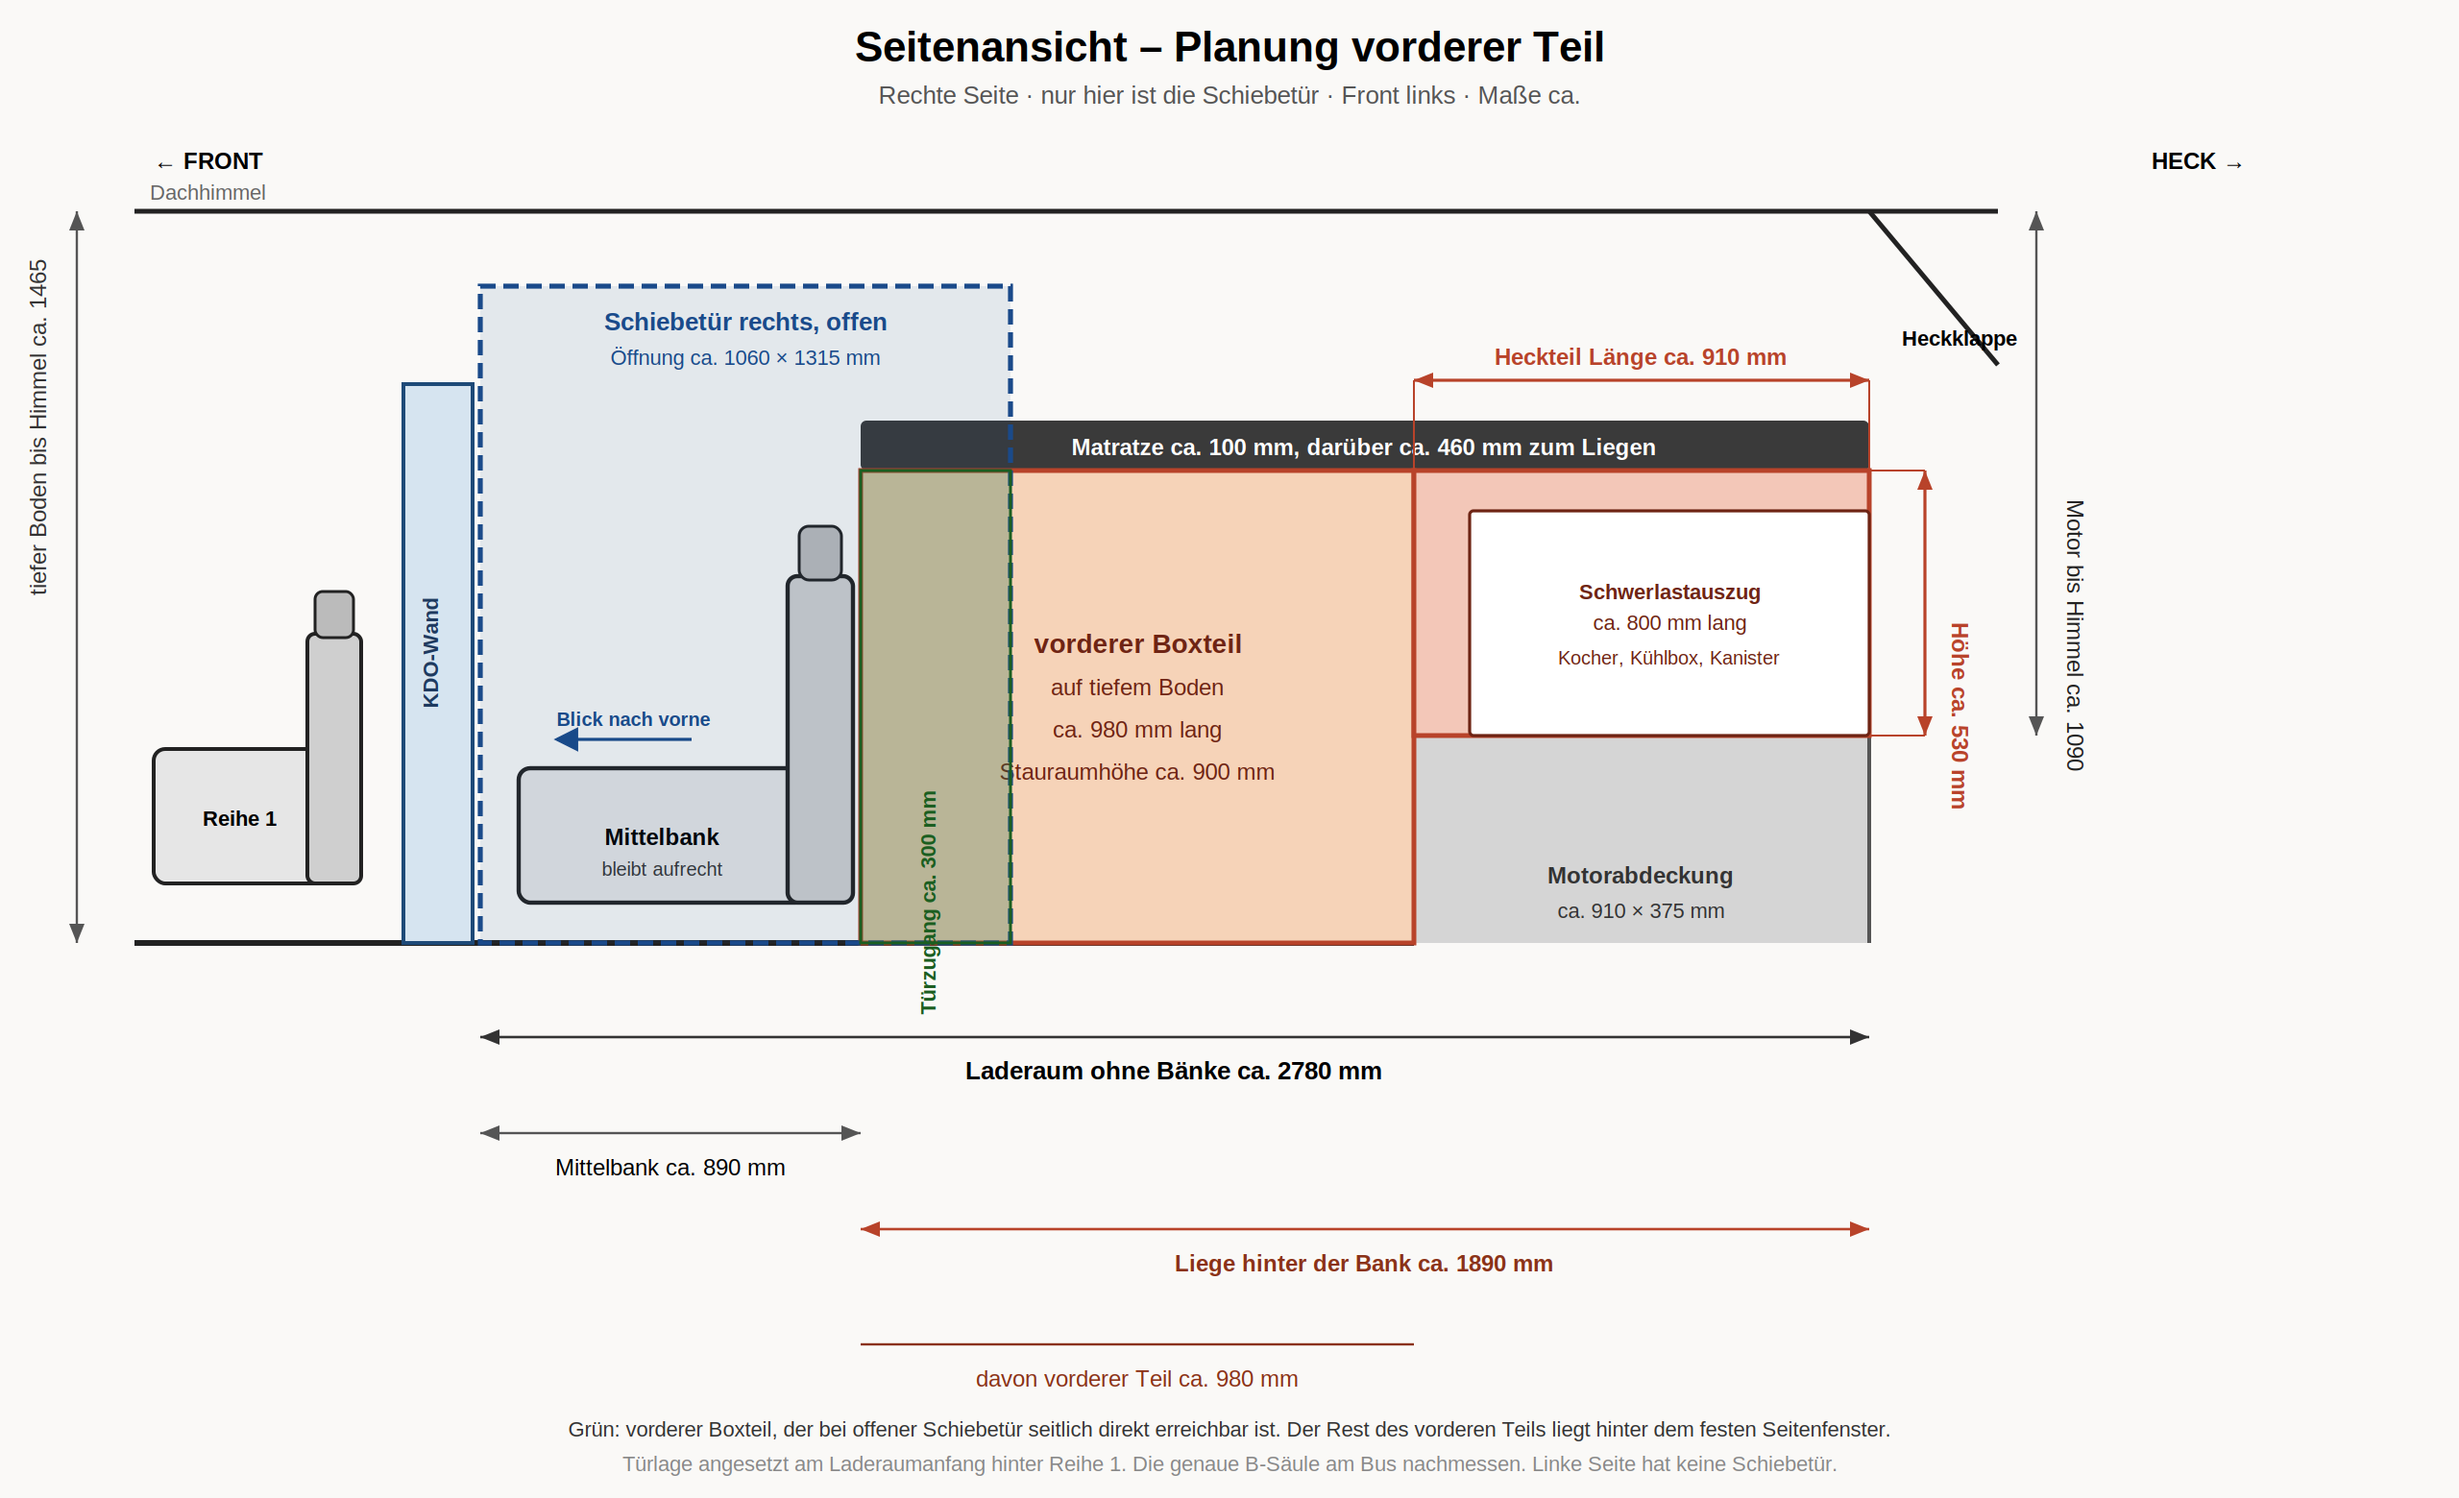
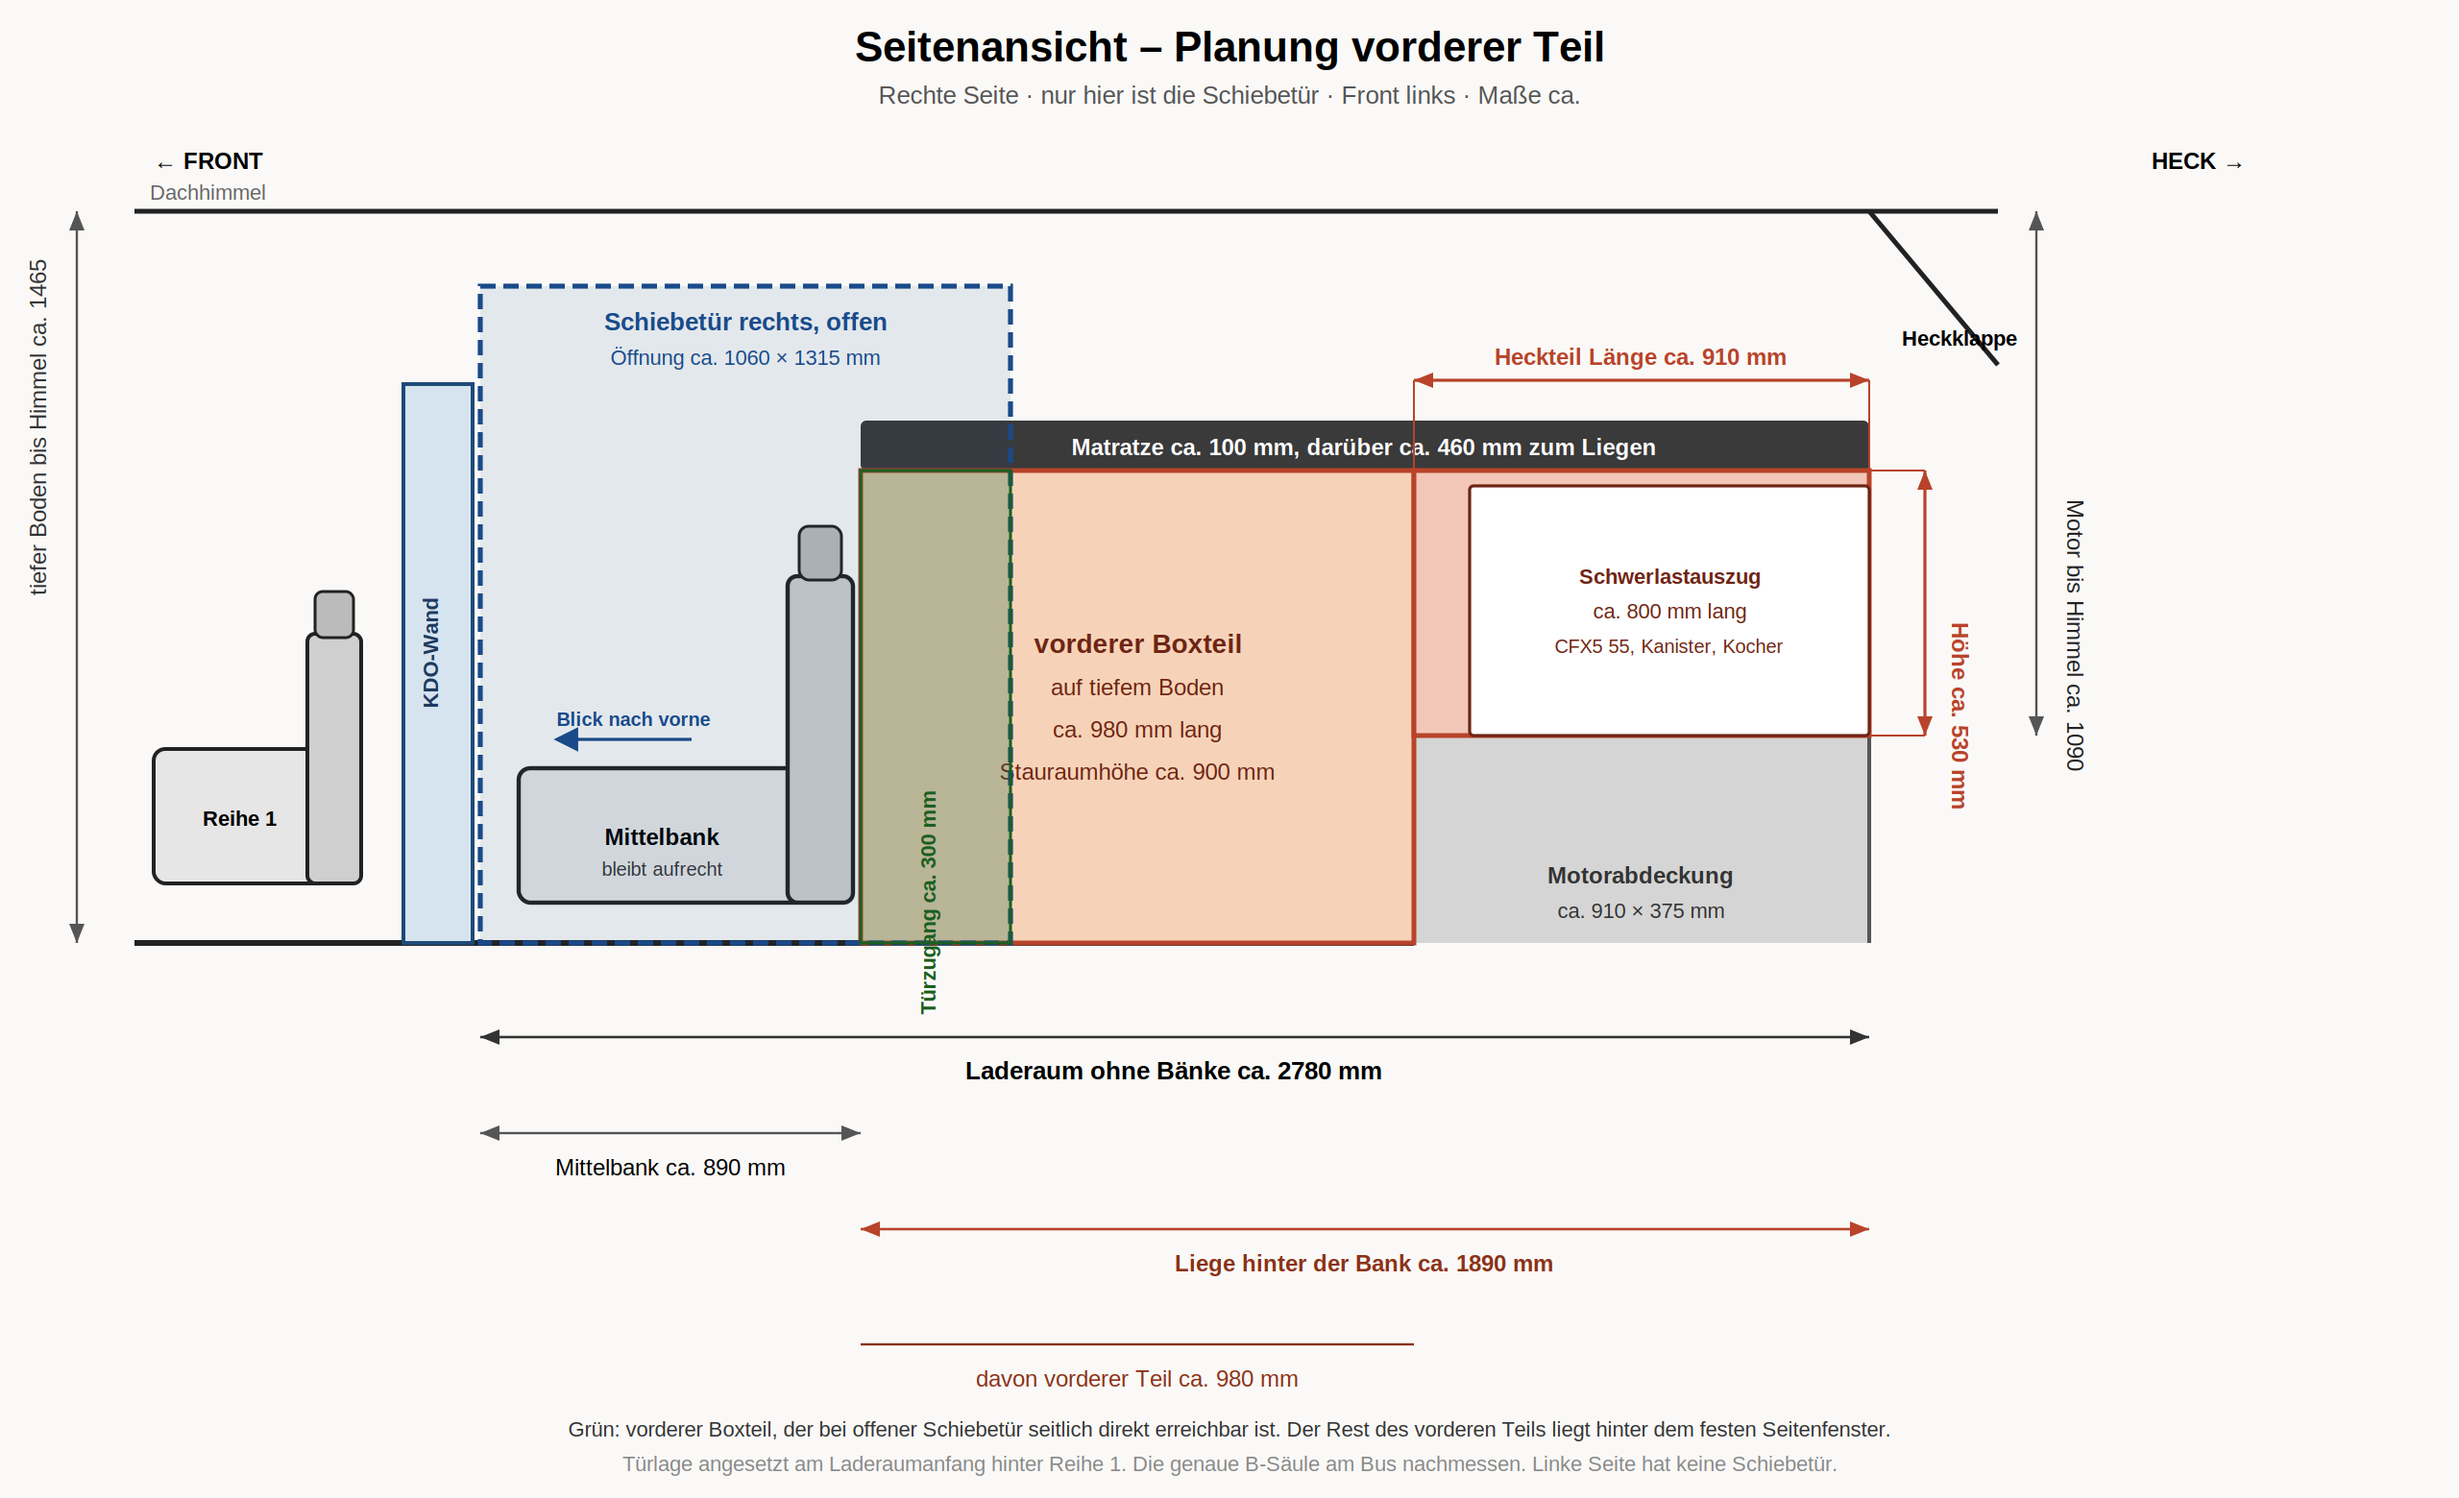
Place the CFX5 55 between the water can and the stove
The 55-liter cooler uses the 530 mm rear height, with dish shelves above the flat can and pot storage behind the lengthwise stove.

Changed region(s): [[0.5938, 0.3077, 0.7812, 0.4615]]

diff --git a/docs/t3-syncro-camping-referenz.md b/docs/t3-syncro-camping-referenz.md
@@ -21,7 +21,7 @@ Die Campingbox bleibt so, bis am Bus nachgemessen wird. Kein Materialzuschnitt i
 
 **Box:** Liege oben, eben. Vorderer Teil ca. 980 mm auf dem tiefen Boden, Stauraum dort ca. 900 mm hoch. Heckteil auf der Motorabdeckung ca. **910 × 1550 × 530 mm** (Länge × Breite × Höhe). Die Motorabdeckung selbst ist nur ca. 1190 mm breit, der Kasten geht bis an die Seiten. Der hohe Kasten ist Stauraum, nicht Sitzfreiheit.
 
-**Heckauszug** (von der Heckklappe): ein **Schwerlastauszug**, ca. 800 mm lang und über die Breite verteilt. Darin nebeneinander: Doppelkocher längs (ca. 600 mm in Fahrtrichtung), Kühlbox ca. 36 l zwischen Kanister und Kocher, flacher Wasserkanister 20 l. Der LifeSaver Jerrycan bleibt draußen. Kochen nur bei offener Heckklappe. Der hohe Stauraum über diesem Auszug entfällt, der bleibt im vorderen Boxteil.
+**Heckauszug** (von der Heckklappe): ein **Schwerlastauszug**, ca. 800 mm lang. Nebeneinander: flacher Wasserkanister 20 l mit Geschirrfächern darüber, **Dometic CFX5 55** (720 × 455 × 480 mm) dazwischen, Doppelkocher längs mit Fach dahinter für Topf, Brett und Kartusche. Der LifeSaver bleibt draußen. Kochen nur bei offener Heckklappe. Der große Stauraum bleibt im vorderen Boxteil.
 
 **Schlechtwetter:** Aufenthalt zu fünft im Vorzelt an der Schiebetür, nicht auf der Liege. Abschnitt 7.3.
 
@@ -368,7 +368,7 @@ Priorisierte Packliste (nur was wirklich im Bus bleiben soll):
 | 1 | Schlafsäcke / Decken / Kissen (tags) | Kompressionsbeutel |
 | 2 | Wechselkleidung 2 Erwachsene | 1× Eurobox 600×400 |
 | 3 | Küchen-Minimum (Gas abseits Fahrzeugregeln beachten) | 1× flache Box |
-| 4 | **Kühlbox 12 V, Kompressor, ca. 36 l** | im Schwerlastauszug, zwischen Kanister und Kocher |
+| 4 | **Dometic CFX5 55, 55 l** | im Schwerlastauszug, zwischen Kanister und Kocher |
 | 0 | **flacher Wasserkanister, ca. 20 l** | Heckfach, liegend, Höhe max. 170 mm |
 | 0b | **Doppel-Gaskocher** | im Schwerlastauszug, längs, daneben Kühlbox und Kanister |
 | 5 | Werkzeug / Recovery klein | 1 Fach, zugänglich von Heck |
@@ -400,24 +400,36 @@ Reliance Aqua-Tainer 15 l ist 29 × 29 × 27,5 cm und bleibt zu hoch. Der 26-l-K
 
 Der Heckauszug ist ein **Schwerlast-Vollauszug**. Darauf stehen nebeneinander der Kocher, die Kühlbox und der Wasserkanister. Der Heckteil ist 910 mm tief und 1550 mm breit, der Deckel liegt 530 mm über dem Motor.
 
-Für fünf Personen wäre eine Kühlbox um 45 l angenehm. Die gängige Klasse in der Größe, zum Beispiel die [Dometic CFX3 45](https://www.campingshop.ch/dometic-cfx3-45-ac-dc-kompressor-kuehlbox-46-liter/CS151783), ist außen 694 × 398 × **476 mm** hoch. Mit Führung unter dem Boden passt das nicht mehr unter den 530-mm-Deckel. Die nächste Klasse, die hineinpasst, ist ca. **36 l** und ca. **407 mm** hoch, Beispiel [Dometic CFX3 35](https://www.kuehlboxtests.de/kuehlboxen/dometic-cfx3-35/): 694 × 398 × 407 mm, leer ca. 17 kg. Das ist der Vorrat für Milch, Aufschnitt und ein paar Getränke über zwei bis drei Tage, nicht der Getränkekeller für eine Woche.
+Die Kühlbox ist eine **[Dometic CFX5 55](https://www.dometic.com/en/product/dometic-cfx5-55-9620015960)**, 55 l, außen **720 × 455 × 480 mm** inklusive Griffen, leer ca. 21–24 kg. Für fünf Personen ist das ein brauchbarer Vorrat für mehrere Tage.
 
-Hinter dem Kanister hat die Kühlbox keinen Platz. Der Auszug ist 800 mm tief, der Kanister belegt davon ca. 460 mm, die Kühlbox ist selbst ca. 694 mm lang. 460 + 694 liegen über 800. Sie steht deshalb **zwischen Kanister und Kocher**, quer nebeneinander:
+Sie steht **zwischen Kanister und Kocher**. Die 720 mm laufen quer, die 455 mm in Fahrtrichtung. Im 800-mm-Auszug bleiben vor und hinter der Box zusammen ca. 345 mm, also mehr als 50 mm an beiden Stirnseiten.
 
-| Platz von links nach rechts | Maß | Höhe |
+Dometic verlangt **mind. 50 mm Luft an allen Seiten** und kein geschlossenes Fach ohne Luftzug. 480 mm unter einem 530-mm-Deckel lassen genau 50 mm übrig, wenn der Boden des Auszugs dünn ist und die Führungen **seitlich** sitzen, nicht unter der Box. Die Box steht auf diesem Boden. Eine zweite Luftschicht darunter gibt die Höhe nicht her. Über der Kühlbox kommt ein Rost, keine geschlossene Platte. Die Lüftungsschlitze bleiben frei.
+
+In der Breite ist der Heckteil mit ca. 1550 mm außen gerade voll. Kanister 350 mm, Kühlbox 720 mm und Kocher quer ca. 320–350 mm sind zusammen schon ca. 1390–1420 mm. Für Seitenwand, Führung und die Luft neben der Box bleiben ca. 130–160 mm. Eine geschlossene Trennwand mit vollen 50 mm je Seite passt nicht mehr dazu. Die Nachbarfächer bleiben zur Kühlbox offen, das ist der seitliche Luftweg. Vor dem Zuschnitt die lichte Schubladenbreite messen.
+
+Über dem Wasserkanister (nur 170 mm hoch) bleiben ca. 300 mm für Geschirr und Besteck. Über der Kocherklappe nicht: der Deckel klappt ca. 35 cm hoch auf. Topf, Pfanne, Brett, Gewürze und die Kartusche liegen **hinter** dem Kocher, in den ca. 200 mm, die von den 800 mm nach den 600 mm Kocherlänge übrig sind. Dieses Fach kann hoch sein, es liegt neben dem hinteren Teil der Kühlbox, nicht über dem Deckel.
+
+| Platz von links nach rechts | Maß | Was noch in die Höhe |
 | --- | --- | --- |
-| Wasserkanister 20 l, flach | Grundfläche ca. 350 × 460 mm | 170 mm |
-| Kühlbox ca. 36 l | ca. 694 × 398 mm | 407 mm |
-| Doppelkocher, 600 mm in Fahrtrichtung | quer ca. 450 mm, längs 800 mm Fach | geschlossen 100–110 mm, Fachhöhe 150 mm |
+| Wasserkanister 20 l, flach, 350 × 460 × 170 mm | Spur 350 mm | darüber Fächer: Besteck, 5 Teller, 5 Becher |
+| CFX5 55, 720 × 455 × 480 mm | Spur 720 mm, Luft über die offenen Nachbarfächer | oben 50 mm Rost, Box steht auf dem Boden |
+| Doppelkocher, 600 mm in Fahrtrichtung, quer ca. 320–350 mm | Spur ca. 350 mm, vorn nur die Gerätehöhe | 200 mm dahinter, hoch: Kartusche, Topf, Pfanne, Brett |
 
-Der Kocher bleibt längs. In seinen 800 mm bleiben hinter den 600 mm ca. 200 mm für Kartusche und Besteckrolle. Die Kühlbox füllt ihre Spur fast auf ganzer Tiefe.
+Sonst im Auszug, in diesen Fächern, und nirgends sonst:
+
+- eine kleine Gewürz- und Kaffeedose, Öl
+- Spülmittel, Schwamm, ein faltbares Abwaschbecken, zwei Geschirrtücher, Müllbeutel
+- Feuerzeug
+
+Kleidung, Schlafsäcke und Werkzeug bleiben draußen. Trockenvorrat liegt im vorderen Boxteil.
 
 | | Plan |
 | --- | --- |
-| Auszug | ca. **800 × 1400 × 450 mm** lichte Spur (Länge × Breite × Höhe bis unter den Deckel). Schwerlast-Vollauszug, Tragkraft mit Reserve über 100 kg, bei der Breite eine Führung links, rechts und in der Mitte |
-| Gewicht grob | Kühlbox beladen ca. 30 kg, Wasser 20 kg, Kocher mit Kartusche ca. 5 kg, plus Auszug. Beim Kochen kommt das nach hinten heraus. Gurte am Kasten müssen das halten. Kein Tisch |
-| Betrieb | Auszug so weit heraus, dass der Kocher vor der Ladekante steht und der Deckel aufgehen kann (offen ca. 35 cm). Die Kühlbox fährt mit |
-| Strom | 12 V über eigene Sicherung, nicht dauerhaft am nackten Zigarettenanzünder. Die 36-l-Klasse zieht im Betrieb grob 4–5 A |
+| Auszug | ca. **800 × 1500 × 500 mm**. Schwerlast-Vollauszug, Tragkraft über 120 kg, Führungen seitlich und in der Mitte |
+| Gewicht grob | Kühlbox beladen ca. 35–40 kg, Wasser 20 kg, Kocher, Geschirr und Auszug dazu. Beim Kochen kommt das nach hinten heraus. Gurte halten das. Kein Tisch |
+| Betrieb | Auszug so weit heraus, dass der Kocher vor der Ladekante steht und der Deckel frei aufgeht. Die Kühlbox fährt mit |
+| Strom | 12 V, eigene Sicherung. Die CFX5 55 zieht laut Datenblatt **9,6 A bei 12 V**. Das ist zu viel für einen dauerhaften Zigarettenanzünder |
 
 Kochen nur bei **offener Heckklappe** und ausgezogenem Kocher, nicht im geschlossenen Bus. Die Geräte dieser Klasse sind laut Hersteller nicht für geschlossene Räume. Keine feste Gasanlage, kein Einbaukocher – der Kocher bleibt ein herausnehmbares Campinggerät.
 
@@ -595,7 +607,7 @@ Modell noch offen. Gesucht wird ein Vorzelt zum Stehen und Sitzen für fünf, da
 | Trinkwasser | flacher Kanister ca. 20 l, Höhe max. 170 mm | LifeSaver bleibt draußen. Die 530 mm Höhe bleibt für den Stauraum |
 | Aufenthalt Regen | Vorzelt an der Schiebetür, 5 Personen | im Bus wird gelegen, nicht gesessen |
 | Kocher | 2-Flammer längs im Schwerlastauszug | 600 mm in Fahrtrichtung, Kartusche in den restlichen 200 mm |
-| Kühlbox | ca. 36 l, ca. 407 mm hoch, zwischen Kanister und Kocher | 45 l ist ca. 476 mm hoch und passt nicht unter den 530-mm-Deckel |
+| Kühlbox | Dometic CFX5 55, 720×455×480 mm, zwischen Kanister und Kocher | 50 mm Luft an allen Seiten, Rost über der Box, Führungen seitlich |
 | Zugriff vorn | 300 mm seitlich an der rechten Schiebetür, Rest von oben | Türöffnung deckt den Kasten nicht auf ganzer Länge |
 | Schlafen Kinder | Dachzelt auf dem Pongratz 230er Heavy | Ladefläche 223 × 125 cm; Busdach nur Gepäck |
 | Räder | 2 MTB an der Deichsel, Kinderräder im Hänger | Stützlast eingetragen 75 kg; mit Waage prüfen |
@@ -620,8 +632,7 @@ Modell noch offen. Gesucht wird ein Vorzelt zum Stehen und Sitzen für fünf, da
 | [Pongratz EPA 230/12 G-RS-STK](https://pongratztrailers.com/anhaenger/epa-230-12-g-rs-stk.1300/) | 230er-Heavy-Serie: 2230×1250×400 mm, 1300/286/1014 kg |
 | [Nakatanenga Wasserkanister](https://www.dachzelt24.de/kunststoff-wasserkanister-wassertank-mit-ausgusshahn-20l-oder-10l/NAWTAN020-GRY) | 20 l: 350×460×170 mm; 10 l: 260×370×140 mm |
 | [RotopaX 2 Gallon Water](https://www.rotopax.com/products/2-gallon-water) | 7,6 l, 457×356×76 mm |
-| [Dometic CFX3 35](https://www.kuehlboxtests.de/kuehlboxen/dometic-cfx3-35/) | Kühlbox-Klasse 36 l: 694×398×407 mm |
-| [Dometic CFX3 45](https://www.campingshop.ch/dometic-cfx3-45-ac-dc-kompressor-kuehlbox-46-liter/CS151783) | 46 l: 694×398×476 mm, zu hoch für 530 mm Deckel |
+| [Dometic CFX5 55](https://www.dometic.com/en/product/dometic-cfx5-55-9620015960) | 55 l, 720×455×480 mm, leer ca. 21–24 kg, 9,6 A bei 12 V, 50 mm Luft rundum |
 | Pongratz Anleitungen Lastenträger, Dachträger am Polyesterdeckel, PE-Deckel mit Aufsatzwand | Träger statt Deckel klemmt auf die Bordwand; Dachträger am Deckel ist Leichtgut |
 
 ---
@@ -672,6 +683,7 @@ Modell noch offen. Gesucht wird ein Vorzelt zum Stehen und Sitzen für fünf, da
 | 2026-09-24 | Heckteil bemaßt: ca. 910 × 1550 × 530 mm, in Seiten- und Heckansicht eingezeichnet |
 | 2026-09-24 | Kocherauszug längs, ca. 800 mm, damit ein 2-Flammer mit ca. 600 mm Breite hineinpasst |
 | 2026-09-24 | Schwerlastauszug: Kühlbox ca. 36 l zwischen Kanister und Kocher. 45 l ist zu hoch |
+| 2026-09-24 | Kühlbox wird die CFX5 55, 720×455×480 mm. Geschirr über dem Kanister, Topf hinter dem Kocher |
 | 2026-09-24 | Box-Follow-up: Geometrie bleibt pausiert; Anhänger ist entschieden, Kocher bleibt im Heckauszug |
 
 ---
